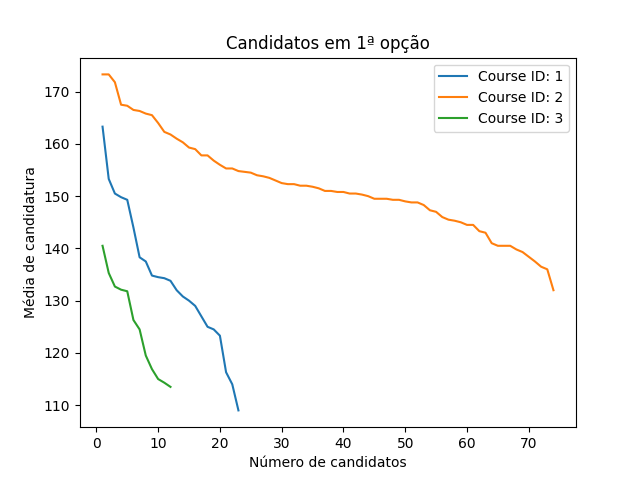
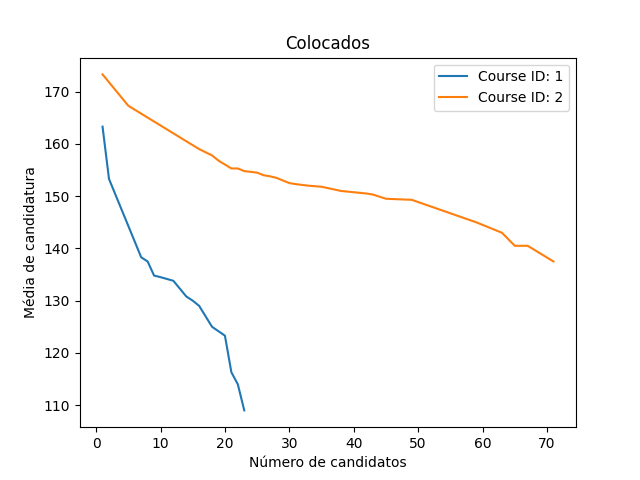
Função de colocados e candidatos

diff --git a/templates/results.html b/templates/results.html
@@ -1,7 +1,7 @@
 <!DOCTYPE html>
 <html>
 <head>
-    <title>Resultado</title>
+    <title>Graph Results</title>
     <link rel="stylesheet" href="{{ url_for('static', filename='results.css') }}">
     <style>
         .graph-container {
@@ -15,12 +15,13 @@
     </style>
 </head>
 <body>
-    <h1>Resultado</h1>
+    <h1>Graph Results</h1>
 
-    {% for graph in graphs %}
-        <h2>{{ graph.title }}</h2>
-        <img src="{{ graph.image }}" alt="{{ graph.title }}">
-        <br><br>
-    {% endfor %}
+    <div class="graph-container">
+        <div class="graph">
+            <img src="{{ graph_url }}"alt="Generated Graph">
+        </div>
+    </div>
+    
 </body>
 </html>

diff --git a/app.py b/app.py
@@ -4,7 +4,8 @@ import subprocess
 import sqlite3
 import matplotlib.pyplot as plt
 
-from graphs import plot
+from graphs import plot_candidatos
+from graphs import plot_colocados
 
 app = Flask(__name__)
 
@@ -26,14 +27,14 @@ def candidatos():
 
 
 @app.route('/candidatos_graph', methods=['POST'])
-def candidatos_graph():
+def candidatos_graph():    
     selected_courses = request.form.getlist('courses')
 
-    # Call the 'main' function to generate the graphs for the selected courses
-    graph_filenames = main(selected_courses)
+    # Call the 'main' function to generate the graph for the selected courses
+    graph_filename = candidatos_plot(selected_courses)
+    return render_template('results.html', graph_url=graph_filename)
 
-    return redirect('/results?graphs=' + ','.join(graph_filenames))
-
+#
 @app.route('/colocados')
 def colocados():
     # Connect to the database and retrieve data from the 'curso' table
@@ -46,69 +47,54 @@ def colocados():
 
     return render_template('display_colocados.html', data=data)
 
+
 @app.route('/colocados_graph', methods=['POST'])
-def colocados_graph():
+def colocados_graph():    
     selected_courses = request.form.getlist('courses')
 
-    # Call the 'main' function to generate the graphs for the selected courses
-    graph_filenames = main(selected_courses)
+    # Call the 'main' function to generate the graph for the selected courses
+    graph_filename = colocados_plot(selected_courses)
+    return render_template('results.html', graph_url=graph_filename)
 
-    return redirect('/results?graphs=' + ','.join(graph_filenames))
+#
 
 
-@app.route('/results')
-def display_results():
-    # Retrieve the 'graphs' parameter from the query string
-    graph_filenames = request.args.get('graphs')
+from flask import send_from_directory 
+@app.route('/graphs/<filename>')
+def serve_dynamic_image(filename):
+    return send_from_directory('graphs', filename)
 
-    if not graph_filenames:
-        # Handle the case when no graphs were generated
-        return render_template('no_results.html')
 
-    # Split the filenames by comma
-    graph_filenames = graph_filenames.split(',')
 
-    # Create a list of graph dictionaries
-    graphs = []
-    for graph_filename in graph_filenames:
-        course_id = graph_filename.split('_')[1].split('.')[0]
-        conn = sqlite3.connect('db/database.db')
-        cursor = conn.cursor()
-        cursor.execute("SELECT codigo, nome FROM Curso WHERE id = ?", (course_id,))
-        course = cursor.fetchone()
-
-        if course:
-            course_code, course_name = course
-
-            print(f"Course Code: {course_code}, Course Name: {course_name}")
-            
-            graph_info = {
-                'title': f'Graph for {course_code} - {course_name}',
-                'image': graph_filename
-            }
-            graphs.append(graph_info)
-
-        # Close the database connection
-        cursor.close()
-        conn.close()
-
-    # Render the 'results.html' template to display the generated graphs
-    return render_template('results.html', graphs=graphs)
-
-def main(selected_courses):
+def candidatos_plot(selected_courses):
     # Connect to the database and retrieve data for the selected courses
     conn = sqlite3.connect('db/database.db')
     cursor = conn.cursor()
 
     # Generate graphs for the selected courses
-    plot(conn, cursor, selected_courses, 'graphs/all_courses.png')  # Call plot with the selected_courses list
+    plot_candidatos(conn, cursor, selected_courses, 'graphs/all_courses.png')  # Call plot with the selected_courses list
 
     # Close the database connection
     cursor.close()
     conn.close()
 
     # Return the list of generated graphs
-    return ['graphs/all_courses.png']
+    return 'graphs/all_courses.png'
+
+def colocados_plot(selected_courses):
+    # Connect to the database and retrieve data for the selected courses
+    conn = sqlite3.connect('db/database.db')
+    cursor = conn.cursor()
+
+    # Generate graphs for the selected courses
+    plot_colocados(conn, cursor, selected_courses, 'graphs/all_courses.png')  # Call plot with the selected_courses list
+
+    # Close the database connection
+    cursor.close()
+    conn.close()
+
+    # Return the list of generated graphs
+    return 'graphs/all_courses.png'
 
 
 if __name__ == '__main__':

diff --git a/graphs.py b/graphs.py
@@ -1,7 +1,7 @@
 import matplotlib.pyplot as plt
 
 
-def plot(conn, cursor, course_id_list, save_filename):
+def plot_candidatos(conn, cursor, course_id_list, save_filename):
     # Create a new figure
     plt.figure()
 
@@ -27,7 +27,39 @@ def plot(conn, cursor, course_id_list, save_filename):
 
     plt.xlabel("Número de candidatos")
     plt.ylabel("Média de candidatura")
-    plt.title("Candidatos em 1ª opção")
+    plt.title("Candidatos")
+    plt.legend()
+    plt.savefig(save_filename)
+    plt.close()
+
+
+def plot_colocados(conn, cursor, course_id_list, save_filename):
+    # Create a new figure
+    plt.figure()
+
+    # Iterate over the selected courses
+    for course_id in course_id_list:
+        query = "SELECT Candidatura.id, Candidatura.media, Candidatura.curso FROM Colocado JOIN Candidatura ON Colocado.nome = Candidatura.nome AND candidatura.curso = ?"
+        cursor.execute(query, (course_id,))
+
+        # Initialize lists to store the x and y values
+        x_values = []
+        y_values = []
+
+        # Fetch and process the results
+        for row in cursor:
+            x = row[0]
+            y = float(row[1])
+
+            x_values.append(x)
+            y_values.append(y)
+
+        # Plot the data for the current course
+        plt.plot(x_values, y_values, label=f'Course ID: {course_id}')
+
+    plt.xlabel("Número de candidatos")
+    plt.ylabel("Média de candidatura")
+    plt.title("Colocados")
     plt.legend()
     plt.savefig(save_filename)
     plt.close()
